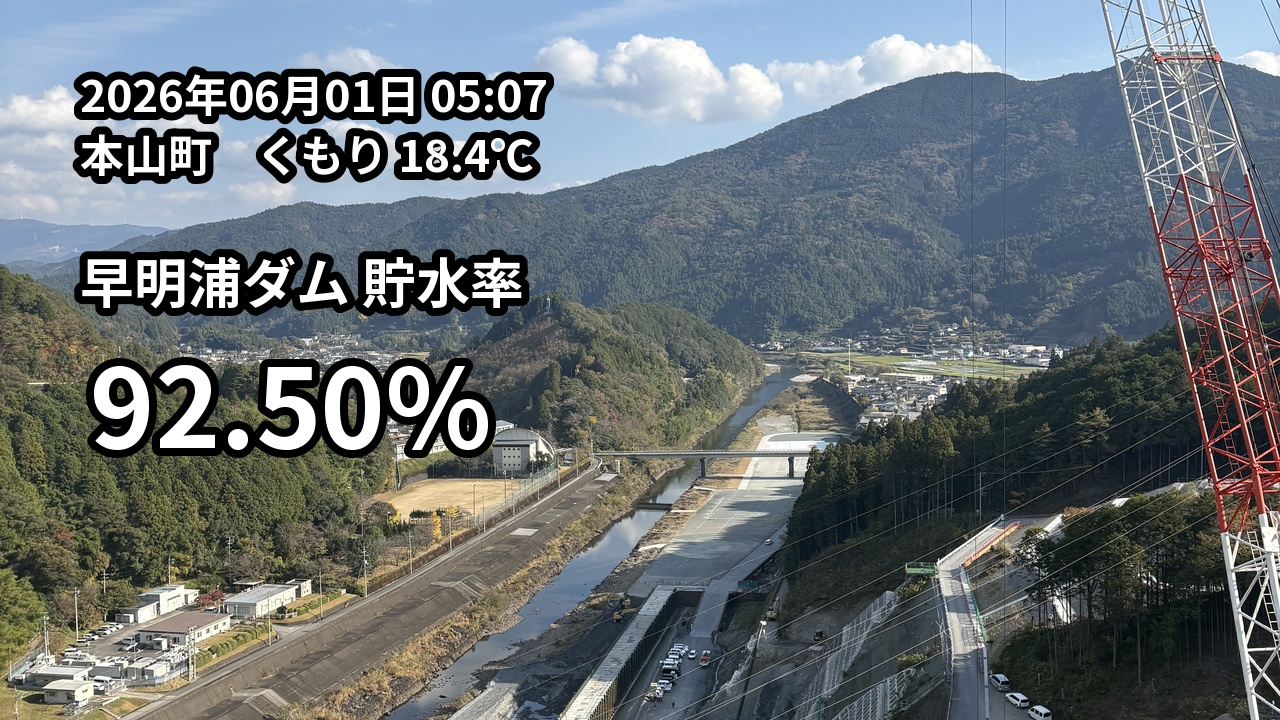
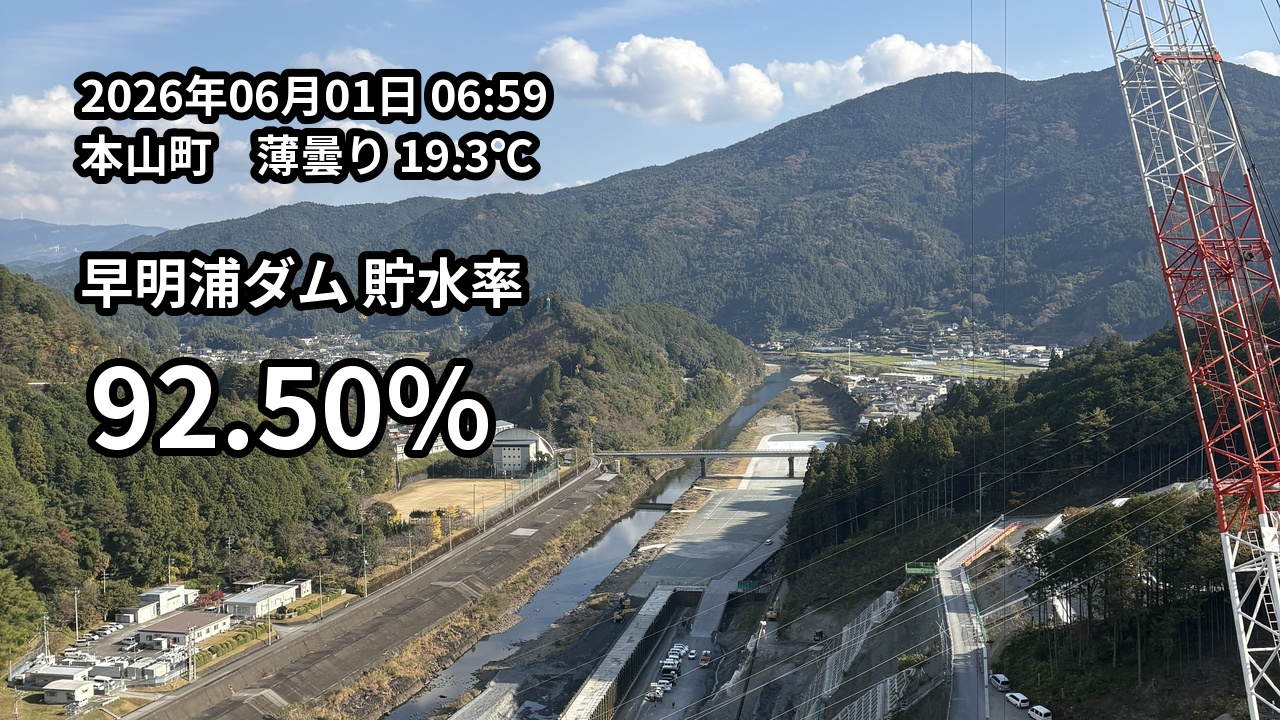
Update daily image

Changed region(s): [[0.1875, 0.1528, 0.2812, 0.275], [0.3438, 0.0917, 0.4375, 0.1528], [0.3125, 0.1833, 0.375, 0.2444]]

diff --git a/index.html b/index.html
@@ -10,6 +10,6 @@
   </style>
 </head>
 <body>
-  <img src="result.jpg?v=202606010507" alt="早明浦ダム 貯水率" />
+  <img src="result.jpg?v=202606010659" alt="早明浦ダム 貯水率" />
 </body>
 </html>
